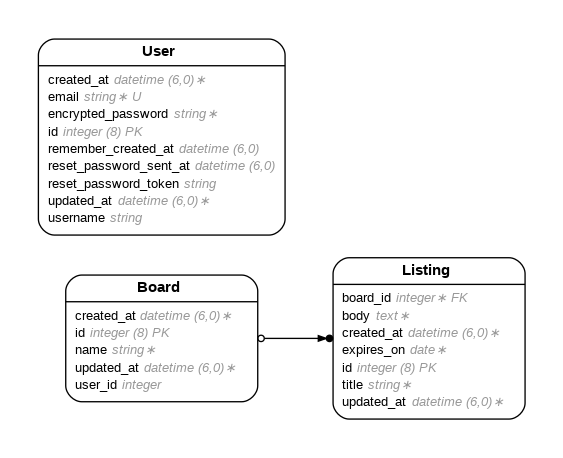
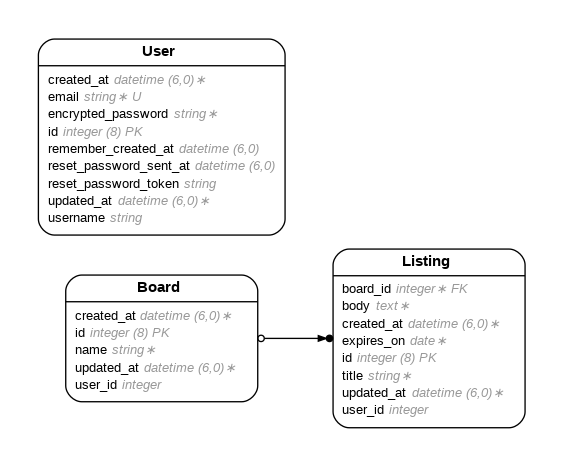
Added user_id column to Listings

diff --git a/db/schema.rb b/db/schema.rb
@@ -10,7 +10,7 @@
 #
 # It's strongly recommended that you check this file into your version control system.
 
-ActiveRecord::Schema[8.0].define(version: 2025_08_21_032156) do
+ActiveRecord::Schema[8.0].define(version: 2025_08_21_032303) do
   # These are extensions that must be enabled in order to support this database
   enable_extension "pg_catalog.plpgsql"
 
@@ -28,6 +28,7 @@ ActiveRecord::Schema[8.0].define(version: 2025_08_21_032156) do
     t.integer "board_id"
     t.datetime "created_at", null: false
     t.datetime "updated_at", null: false
+    t.integer "user_id"
   end
 
   create_table "solid_cable_messages", force: :cascade do |t|

diff --git a/app/models/listing.rb b/app/models/listing.rb
@@ -9,6 +9,7 @@
 #  created_at :datetime         not null
 #  updated_at :datetime         not null
 #  board_id   :integer
+#  user_id    :integer
 #
 class Listing < ApplicationRecord
   belongs_to :board, class_name: "Board", foreign_key: "board_id"

diff --git a/db/migrate/20250821032303_add_user_id_to_listings.rb b/db/migrate/20250821032303_add_user_id_to_listings.rb
@@ -1,0 +1,5 @@
+class AddUserIdToListings < ActiveRecord::Migration[8.0]
+  def change
+    add_column :listings, :user_id, :integer
+  end
+end
